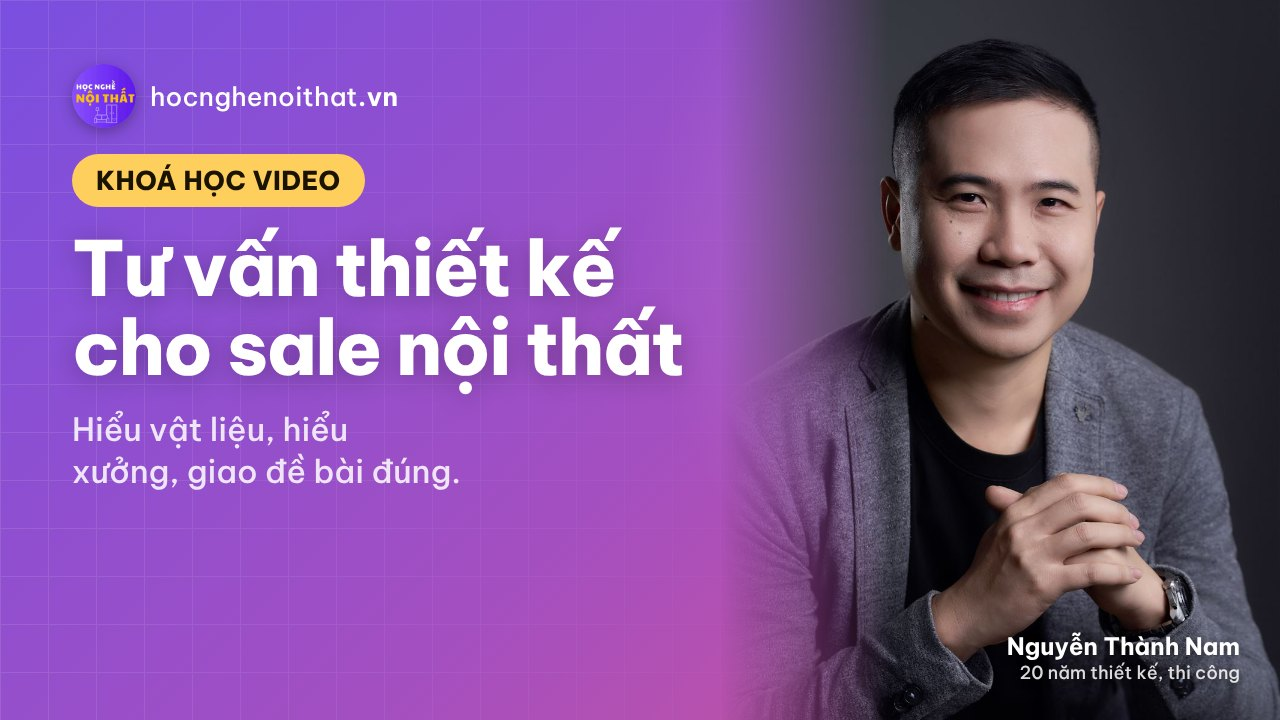
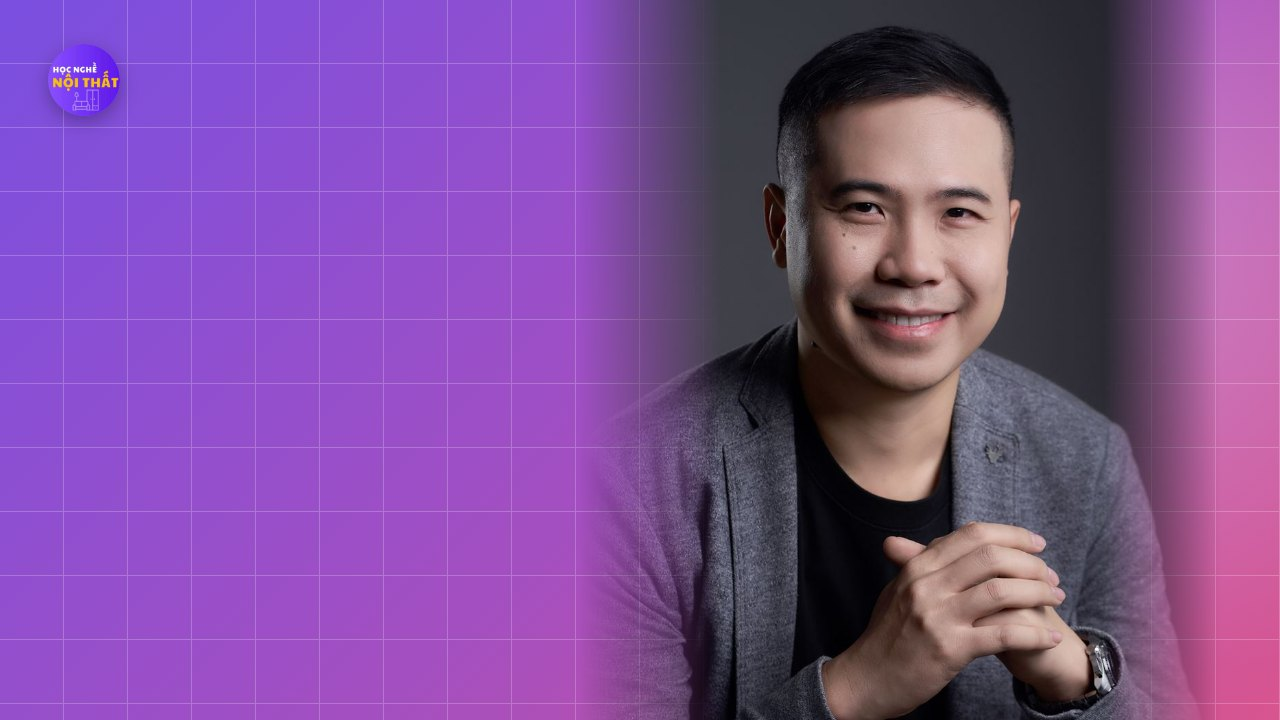
Phần mềm & combo thành danh sách bấm +; bỏ phần dự án khỏi trang chủ, thêm link trong trang Về Nam; thumbnail tối giản nền kẻ ô
Claude-Session: https://claude.ai/code/session_01R1JQNXKSkK2vrspryuBMNZ

diff --git a/index.html b/index.html
@@ -1112,6 +1112,23 @@
   .nav-cta{ background:linear-gradient(120deg, #533AFD 0%, #8B4FD8 100%) !important; border:0 !important; }
   .nav-cta + .nav-cta{ background:linear-gradient(120deg, #7A4FE0 0%, #D8558F 100%) !important; }
   .nav-cta:hover{ filter:brightness(1.08); }
+  /* Bảng giá phần mềm & combo: danh sách bấm + để xem thêm */
+  .price-acc{ list-style:none; margin:0; padding:0; }
+  .price-acc > li{ border-bottom:1px solid rgba(83,58,253,.12); }
+  .price-acc > li:last-child{ border-bottom:0; }
+  .pr-item > summary{ min-height:58px; gap:12px; }
+  .pr-name{ flex:1; min-width:0; font-size:17px; font-weight:500; }
+  .pr-price{ flex:none; font-size:20px; font-weight:400; letter-spacing:-0.01em; background:linear-gradient(100deg, #533AFD, #E0569B); -webkit-background-clip:text; background-clip:text; color:transparent; }
+  .pr-price small{ font-size:13px; }
+  .pr-body{ padding:0 0 16px; animation:more-in .25s ease-out; }
+  .pr-body p{ margin:0 0 10px; color:var(--text-2); font-size:15px; }
+  .pr-body .soft-save-pill{ width:auto; margin:0 8px 0 0; }
+  .pr-body .dots{ margin:0 0 12px; }
+  .pr-body .dots li{ font-size:15px; margin-bottom:4px; }
+  .pr-go{ display:inline-flex; align-items:center; min-height:40px; padding:8px 18px; border-radius:999px; color:#fff; font-size:14px; font-weight:500; background:linear-gradient(120deg, #533AFD 0%, #D8558F 100%); }
+  .pr-go:hover{ text-decoration:none; filter:brightness(1.08); }
+  #bang-gia{ scroll-margin-top:90px; }
+  @media (max-width:419px){ .pr-name{ font-size:15.5px; } .pr-price{ font-size:17px; } }
   /* nút Zalo tròn */
   .zalo-float{ width:58px; height:58px; min-height:0; padding:0; justify-content:center; border-radius:50% !important; background:#0068FF; }
   .zalo-float:hover{ background:#0057D9; }
@@ -1413,35 +1430,19 @@
     <!-- Nhóm phụ: phần mềm cơ bản -->
     <div class="soft-group">
       <h2 class="h-section sub-head">Cho người mới bắt đầu</h2>
-      <div class="soft-cards">
-        <a class="soft-card s-cad soft-row" href="https://zalo.me/0988504858" target="_blank" rel="noopener">
-          <span class="soft-mark" aria-hidden="true">CAD</span>
-          <h4>AutoCAD cơ bản</h4>
-          <div class="soft-price">1.000.000 <small>đ</small></div>
-        <span class="sc-go" aria-hidden="true">›</span></a>
-        <a class="soft-card s-skp soft-row" href="https://zalo.me/0988504858" target="_blank" rel="noopener">
-          <span class="soft-mark" aria-hidden="true">3D</span>
-          <h4>SketchUp cơ bản</h4>
-          <div class="soft-price">1.000.000 <small>đ</small></div>
-        <span class="sc-go" aria-hidden="true">›</span></a>
-        <a class="soft-card s-combo s-combo-cad" href="https://zalo.me/0988504858" target="_blank" rel="noopener">
-          <h4>Combo AutoCAD + SketchUp</h4>
-          <div class="soft-price-row"><div class="soft-price">1.500.000 <small>đ</small></div><span class="soft-save-pill">Tiết kiệm 500.000 đ</span></div>
-        <span class="sc-go" aria-hidden="true">›</span></a>
-        <a class="soft-card s-combo s-combo-dg" id="bang-gia" href="https://zalo.me/0988504858" target="_blank" rel="noopener">
-          <h4>Combo Thiết kế đồ gỗ + Nhà ở</h4>
-          <div class="soft-price-row"><div class="soft-price">3.500.000 <small>đ</small></div><span class="soft-save-pill">Tiết kiệm 1.500.000 đ</span></div>
-        <span class="sc-go" aria-hidden="true">›</span></a>
-        <a class="soft-card s-combo s-combo-hot" href="https://zalo.me/0988504858" target="_blank" rel="noopener">
-          <h4>Combo 4 khoá chính</h4>
-          <ul class="combo-items">
-            <li>Thiết kế đồ nội thất gỗ công nghiệp</li>
-            <li>Thiết kế nội thất căn hộ chung cư</li>
-            <li>Dự toán thi công nội thất cơ bản</li>
-            <li>Tư vấn thiết kế dành cho sale nội thất</li>
-          </ul>
-          <div class="soft-price-row"><div class="soft-price">5.000.000 <small>đ</small></div><span class="soft-save-pill">Tiết kiệm 4.000.000 đ</span></div>
-        <span class="sc-go" aria-hidden="true">›</span></a>
+      <div class="how-box">
+      <ul class="price-acc">
+        <li><details class="tl-item pr-item"><summary><span class="pr-name">AutoCAD cơ bản</span><span class="pr-price">1.000.000 <small>đ</small></span></summary>
+          <div class="pr-body"><p>Vẽ bản vẽ 2D: mặt bằng, mặt cắt, chi tiết. Dành cho anh em chưa biết dùng phần mềm.</p><a class="pr-go" href="https://zalo.me/0988504858" target="_blank" rel="noopener">Đăng ký qua Zalo ›</a></div></details></li>
+        <li><details class="tl-item pr-item"><summary><span class="pr-name">SketchUp cơ bản</span><span class="pr-price">1.000.000 <small>đ</small></span></summary>
+          <div class="pr-body"><p>Dựng hình 3D không gian và đồ nội thất. Dành cho anh em chưa biết dùng phần mềm.</p><a class="pr-go" href="https://zalo.me/0988504858" target="_blank" rel="noopener">Đăng ký qua Zalo ›</a></div></details></li>
+        <li><details class="tl-item pr-item"><summary><span class="pr-name">Combo AutoCAD + SketchUp</span><span class="pr-price">1.500.000 <small>đ</small></span></summary>
+          <div class="pr-body"><p><span class="soft-save-pill">Tiết kiệm 500.000 đ</span> Học cả hai phần mềm cơ bản.</p><a class="pr-go" href="https://zalo.me/0988504858" target="_blank" rel="noopener">Đăng ký qua Zalo ›</a></div></details></li>
+        <li id="bang-gia"><details class="tl-item pr-item"><summary><span class="pr-name">Combo Thiết kế đồ gỗ + Nhà ở</span><span class="pr-price">3.500.000 <small>đ</small></span></summary>
+          <div class="pr-body"><p><span class="soft-save-pill">Tiết kiệm 1.500.000 đ</span></p><ul class="dots"><li>Thiết kế đồ nội thất gỗ công nghiệp</li><li>Thiết kế nội thất căn hộ chung cư</li></ul><a class="pr-go" href="https://zalo.me/0988504858" target="_blank" rel="noopener">Đăng ký qua Zalo ›</a></div></details></li>
+        <li><details class="tl-item pr-item"><summary><span class="pr-name">Combo 4 khoá chính</span><span class="pr-price">5.000.000 <small>đ</small></span></summary>
+          <div class="pr-body"><p><span class="soft-save-pill">Tiết kiệm 4.000.000 đ</span></p><ul class="dots"><li>Thiết kế đồ nội thất gỗ công nghiệp</li><li>Thiết kế nội thất căn hộ chung cư</li><li>Dự toán thi công nội thất cơ bản</li><li>Tư vấn thiết kế dành cho sale nội thất</li></ul><a class="pr-go" href="https://zalo.me/0988504858" target="_blank" rel="noopener">Đăng ký qua Zalo ›</a></div></details></li>
+      </ul>
       </div>
     </div>
 
@@ -1461,18 +1462,6 @@
 </section>
 
 
-<!-- ==================== CÔNG TRÌNH (phần phụ) ==================== -->
-<section class="section" id="cong-trinh" aria-labelledby="cong-trinh-title">
-  <div class="wrap">
-    <div class="section-head">
-      <h2 class="h-section" id="cong-trinh-title">Một số dự án thực tế của Nam</h2>
-    </div>
-    <a class="feature-project" href="cong-trinh/index.html">
-      <div class="ph fp-img"><img src="anh/can-ho-phong-khach.jpg" width="1600" height="1066" alt="Phòng khách và bếp căn hộ chung cư ở Hà Nội, trần có đèn tròn" loading="lazy" decoding="async"></div>
-      <span class="btn fp-btn fp-glass">Xem các dự án đã làm <span class="arrow" aria-hidden="true">›</span></span>
-    </a>
-  </div>
-</section>
 
 <!-- ==================== BÀI VIẾT ==================== -->
 <section class="section" id="bai-viet" aria-labelledby="bai-viet-title">
@@ -1551,7 +1540,7 @@
     if('IntersectionObserver' in window){
       /* 1. Hiện dần, có so le (stagger) trong các lưới */
       var sel = '.section-head, .stat, .book-visual, .book-grid > div:last-child, .launch, .course-feature,' +
-                ' .course-grid > .card, .soft-card, .sub-head, .how-steps > li, .combo, .combo-cta,' +
+                ' .course-grid > .card, .sub-head, .how-steps > li, .combo, .combo-cta,' +
                 ' .about-teaser, .contact-box, .quote-card, .reader-photos';
       var groups = '.stats, .course-grid, .how-steps, .combo-grid, .projects, .about, .quotes';
       var els = Array.prototype.slice.call(document.querySelectorAll(sel));

diff --git a/cong-cu/thumbnail/mau.html b/cong-cu/thumbnail/mau.html
@@ -13,14 +13,17 @@
   .c-plum   .bg{ background:linear-gradient(135deg, #7A4FE0 0%, #A44FC0 55%, #D8558F 100%); }
   .c-slate  .bg{ background:linear-gradient(135deg, #5340D6 0%, #8A4BCF 55%, #C65094 100%); }
   /* lưới mờ kiểu giấy kẻ ô bản vẽ */
-  .grid{ position:absolute; inset:0; opacity:.10;
-    background-image:linear-gradient(#fff 1px, transparent 1px), linear-gradient(90deg, #fff 1px, transparent 1px);
-    background-size:48px 48px; mask-image:linear-gradient(90deg, #000 0%, transparent 70%); }
+  /* Lưới kẻ ô trắng (~64px ≈ 5-10mm khi hiện trên trang) phủ đều toàn ảnh */
+  .grid{ position:absolute; inset:0; opacity:.22;
+    background-image:linear-gradient(#fff 1.5px, transparent 1.5px), linear-gradient(90deg, #fff 1.5px, transparent 1.5px);
+    background-size:64px 64px; background-position:-1px -1px; }
   .glow{ position:absolute; width:900px; height:900px; right:-260px; top:-200px; border-radius:50%;
     background:radial-gradient(closest-side, rgba(255,255,255,.28), rgba(255,255,255,0)); }
-  .photo{ position:absolute; right:0; bottom:0; width:560px; height:720px;
+  .txt, .name{ display:none !important; }
+  .brand-mini{ position:absolute; left:48px; top:44px; width:72px; height:72px; border-radius:50%; box-shadow:0 6px 18px rgba(0,0,0,.3); }
+  .photo{ position:absolute; right:60px; bottom:0; width:640px; height:720px;
     background:url(../../anh/chan-dung.jpg) 50% 18% / cover no-repeat;
-    mask-image:linear-gradient(90deg, transparent 0%, #000 30%); -webkit-mask-image:linear-gradient(90deg, transparent 0%, #000 30%); }
+    mask-image:linear-gradient(90deg, transparent 0%, #000 22%, #000 82%, transparent 100%); -webkit-mask-image:linear-gradient(90deg, transparent 0%, #000 22%, #000 82%, transparent 100%); }
   .txt{ position:absolute; left:72px; top:64px; width:720px; }
   .brand{ display:flex; align-items:center; font-size:26px; font-weight:500; letter-spacing:.01em; }
   .brand img{ width:64px; height:64px; margin-right:14px; border-radius:50%; box-shadow:0 4px 14px rgba(0,0,0,.3); }
@@ -32,7 +35,7 @@
   .name span{ display:block; font-size:18px; font-weight:500; opacity:.85; }
 </style></head>
 <body>
-  <div class="bg"></div><div class="grid"></div><div class="glow"></div><div class="photo"></div>
+  <div class="bg"></div><div class="grid"></div><div class="glow"></div><div class="photo"></div><img class="brand-mini" src="../../anh/logo.png" alt="">
   <div class="txt">
     <div class="brand"><img src="../../anh/logo.png" alt="">hocnghenoithat<b>.vn</b></div>
     <div class="tag" id="k"></div>

diff --git a/cong-trinh/index.html b/cong-trinh/index.html
@@ -26,7 +26,7 @@
 </header>
 <main>
   <section class="wrap list">
-    <a class="back" href="../index.html#cong-trinh"><span class="back-ico" aria-hidden="true"><svg viewBox="0 0 24 24" fill="none" stroke="currentColor" stroke-width="2.2" stroke-linecap="round" stroke-linejoin="round"><path d="M9 14 4 9l5-5"/><path d="M4 9h10.5a5.5 5.5 0 0 1 0 11H11"/></svg></span>Về trang chủ</a>
+    <a class="back" href="../ve-nam/index.html"><span class="back-ico" aria-hidden="true"><svg viewBox="0 0 24 24" fill="none" stroke="currentColor" stroke-width="2.2" stroke-linecap="round" stroke-linejoin="round"><path d="M9 14 4 9l5-5"/><path d="M4 9h10.5a5.5 5.5 0 0 1 0 11H11"/></svg></span>Về Nam</a>
     <h1>Một số dự án thực tế của Nam.<span>Từ căn hộ, cửa hàng tới chuỗi tiệm bánh.</span></h1>
     <ul class="projects">
       <li class="project" id="can-ho-906">

diff --git a/ve-nam/index.html b/ve-nam/index.html
@@ -54,6 +54,7 @@
           </ul>
         </div>
       </div>
+      <a class="vn-projects" href="../cong-trinh/index.html">Một số dự án thực tế của Nam <span aria-hidden="true">›</span></a>
       <figure class="award">
         <div class="ph"><img src="../anh/aqsa-2009-trien-lam.jpg" width="1600" height="1200" alt="Nam đứng cạnh bộ đồ gỗ Wa-buff Collection tại triển lãm AQSA LIVING 2009" decoding="async"></div>
         <figcaption>Bên bộ Wa-buff Collection, thiết kế đoạt giải nhất cuộc thi thiết kế đồ gỗ AQSA LIVING (Indonesia, 2009).</figcaption>

diff --git a/ve-nam/ve-nam.css b/ve-nam/ve-nam.css
@@ -28,3 +28,5 @@
 .skills{ display:grid; gap:24px; margin-top:32px; }
 @media (min-width:768px){ .skills{ grid-template-columns:repeat(2, minmax(0,1fr)); } }
 @media (min-width:900px){ .about{ grid-template-columns:minmax(0,4fr) minmax(0,8fr); gap:64px; } }
+.vn-projects{ display:inline-flex; align-items:center; gap:8px; margin-top:28px; min-height:46px; padding:10px 22px; border-radius:999px; color:#fff; font-weight:500; background:linear-gradient(120deg, #533AFD 0%, #D8558F 100%); }
+.vn-projects:hover{ text-decoration:none; filter:brightness(1.08); }
